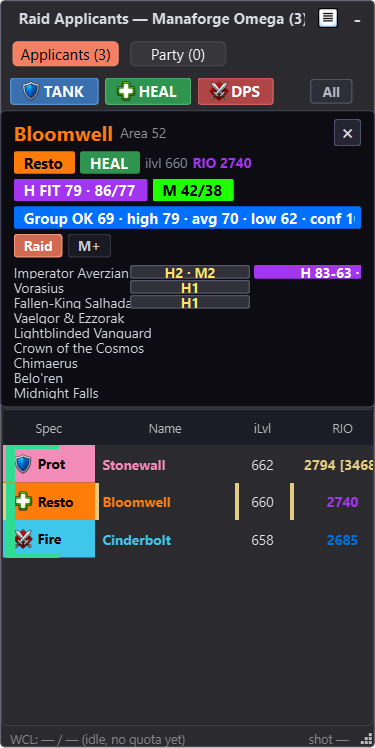
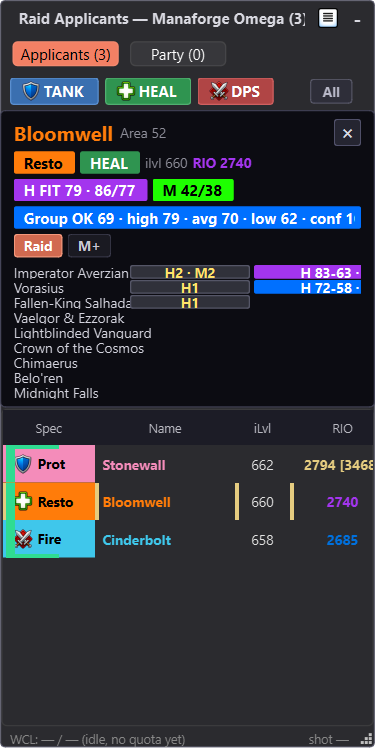
test: cover raid fixture boss parses

Changed region(s): [[0.6747, 0.369, 0.968, 0.3997]]

diff --git a/scripts/overlay_visual_fixture.py b/scripts/overlay_visual_fixture.py
@@ -248,7 +248,7 @@ def _raid_boss_parses() -> dict[str, list[dict]]:
                 "ilvl": 63.0,
             },
             {
-                "encounter_id": 3131,
+                "encounter_id": 3177,
                 "name": "Vorasius",
                 "overall": 72.0,
                 "ilvl": 58.0,
@@ -262,7 +262,7 @@ def _raid_boss_parses() -> dict[str, list[dict]]:
                 "ilvl": 68.0,
             },
             {
-                "encounter_id": 3131,
+                "encounter_id": 3177,
                 "name": "Vorasius",
                 "overall": 39.0,
                 "ilvl": 52.0,

diff --git a/tests/test_overlay_visual_fixture.py b/tests/test_overlay_visual_fixture.py
@@ -243,6 +243,8 @@ def test_raid_listing_visual_scenario_covers_raid_context(qtbot, tmp_path):
         assert window._panel._dungeon_rows[0][0].text()
         assert window._panel._dungeon_rows[0][1].text()
         assert window._panel._dungeon_rows[0][3].text()
+        assert window._panel._dungeon_rows[1][0].text() == "Vorasius"
+        assert window._panel._dungeon_rows[1][3].text() == "H 72-58 · M 39-52"
         assert window._panel.height() == window._panel.target_height()
         assert window._raid_boss_fetches_in_flight == {}
     finally: